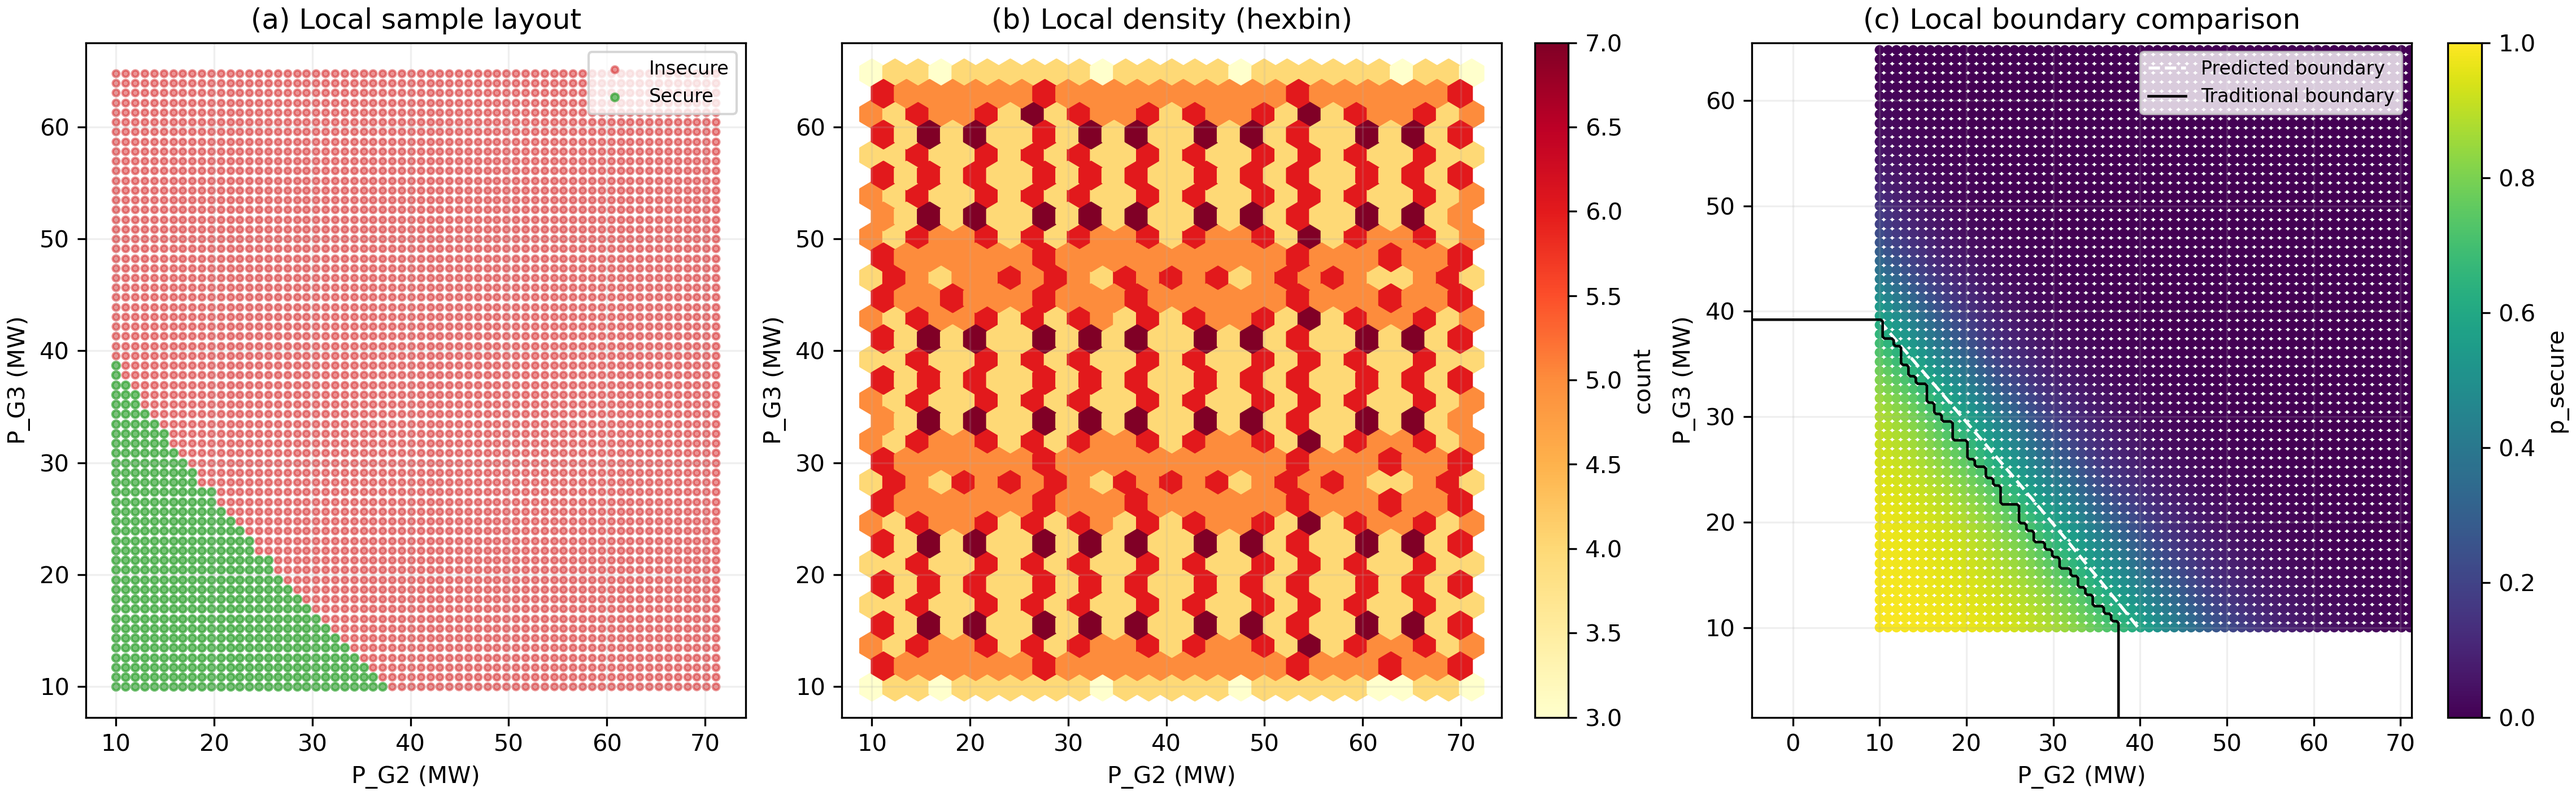
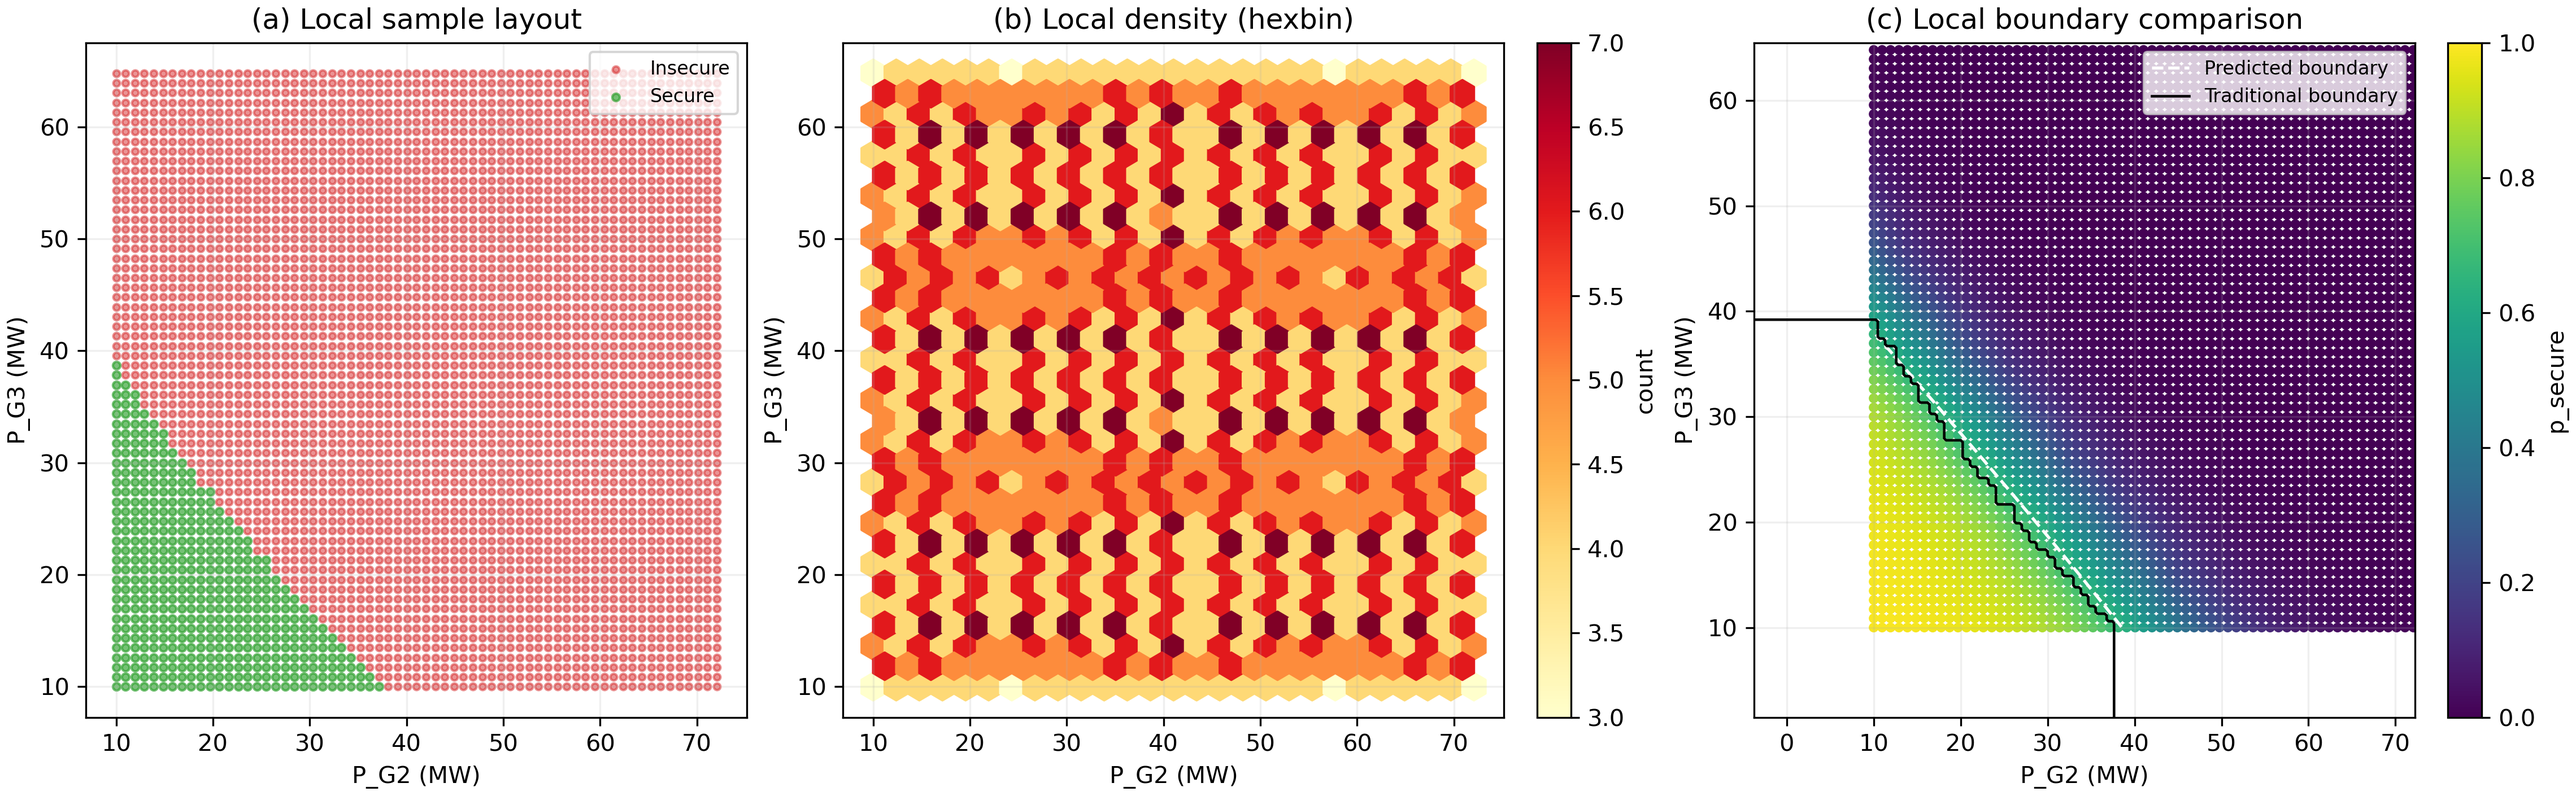
Tighten case9 boundary inclusion errors
Add strict-FPR threshold selection for boundary-loop outputs and regenerate case9 boundary/security comparison figures to reduce infeasible-region over-inclusion relative to traditional results.

diff --git a/experiments/run_case9_boundary_loop.py b/experiments/run_case9_boundary_loop.py
@@ -111,6 +111,79 @@ def _stratified_split(
     return {"train": train, "val": val, "test": test}
 
 
+def _select_strict_threshold(
+    probs: np.ndarray,
+    labels: np.ndarray,
+    fpr_target: float = 1e-3,
+    t_min: float = 0.50,
+    t_max: float = 0.95,
+    n_grid: int = 91,
+) -> Tuple[float, Dict[str, float]]:
+    """
+    Select threshold prioritizing low false-positive rate.
+
+    Strategy:
+    1) Among thresholds with FPR <= fpr_target, maximize F1.
+    2) If none satisfy target, choose threshold with minimum FPR, then max F1.
+    """
+    p = probs.astype(np.float64)
+    y = labels.astype(np.int64)
+
+    best_feasible = None
+    best_any = None
+
+    for t in np.linspace(t_min, t_max, int(n_grid)):
+        pred = (p > float(t)).astype(np.int64)
+        tp = float(np.sum((pred == 1) & (y == 1)))
+        fp = float(np.sum((pred == 1) & (y == 0)))
+        fn = float(np.sum((pred == 0) & (y == 1)))
+        tn = float(np.sum((pred == 0) & (y == 0)))
+
+        prec = tp / (tp + fp + 1e-12)
+        rec = tp / (tp + fn + 1e-12)
+        f1 = 2.0 * prec * rec / (prec + rec + 1e-12)
+        fpr = fp / (fp + tn + 1e-12)
+
+        row = {
+            "threshold": float(t),
+            "f1": float(f1),
+            "precision": float(prec),
+            "recall": float(rec),
+            "fpr": float(fpr),
+            "tp": int(tp),
+            "fp": int(fp),
+            "fn": int(fn),
+            "tn": int(tn),
+        }
+
+        if (best_any is None) or (row["fpr"] < best_any["fpr"] - 1e-12) or (
+            abs(row["fpr"] - best_any["fpr"]) <= 1e-12 and row["f1"] > best_any["f1"] + 1e-12
+        ):
+            best_any = row
+
+        if row["fpr"] <= float(fpr_target):
+            if (best_feasible is None) or (row["f1"] > best_feasible["f1"] + 1e-12) or (
+                abs(row["f1"] - best_feasible["f1"]) <= 1e-12 and row["threshold"] > best_feasible["threshold"]
+            ):
+                best_feasible = row
+
+    out = best_feasible if best_feasible is not None else best_any
+    if out is None:
+        # Should never happen because threshold grid is non-empty.
+        out = {
+            "threshold": 0.5,
+            "f1": 0.0,
+            "precision": 0.0,
+            "recall": 0.0,
+            "fpr": 0.0,
+            "tp": 0,
+            "fp": 0,
+            "fn": 0,
+            "tn": 0,
+        }
+    return float(out["threshold"]), out
+
+
 def _make_loader(ds: Case9Dataset, indices: np.ndarray, batch_size: int, shuffle: bool) -> DataLoader:
     part = MultiTaskDataset(
         ds.X_norm[indices],
@@ -377,6 +450,12 @@ def main() -> None:
     parser.add_argument("--boundary-weight", type=float, default=2.2)
     parser.add_argument("--boundary-hard-neg-boost", type=float, default=3.0)
     parser.add_argument("--p1-weight", type=float, default=4.0)
+    parser.add_argument(
+        "--strict-fpr-target",
+        type=float,
+        default=1e-3,
+        help="Target max FPR when selecting final plotting/deployment threshold.",
+    )
     args = parser.parse_args()
 
     _set_seed(args.seed)
@@ -610,6 +689,20 @@ def main() -> None:
         "val": _make_loader(ds, split["val"], batch_size=args.batch_size, shuffle=False),
         "test": _make_loader(ds, split["test"], batch_size=args.batch_size, shuffle=False),
     }
+
+    # Re-select final threshold with stricter FPR preference on validation set
+    val_probs, _ = _predict_on_indices(model, ds, split["val"], device=device)
+    val_labels = ds.y_cls[split["val"]]
+    strict_th, strict_row = _select_strict_threshold(
+        probs=val_probs,
+        labels=val_labels,
+        fpr_target=float(args.strict_fpr_target),
+        t_min=0.50,
+        t_max=0.95,
+        n_grid=91,
+    )
+    best_threshold = float(strict_th)
+
     final_val = evaluate_full_state_model(model, loaders_eval["val"], ds, device, threshold=best_threshold)
     final_test = evaluate_full_state_model(model, loaders_eval["test"], ds, device, threshold=best_threshold)
     final_test_closure = evaluate_energy_consistency(model, loaders_eval["test"], ds, device)
@@ -631,9 +724,9 @@ def main() -> None:
             "state_mean": ds.state_mean,
             "state_std": ds.state_std,
             "state_names": ds.state_names,
-            "best_threshold": float(best_threshold),
-            "best_round": int(best_round),
-        },
+        "best_threshold": float(best_threshold),
+        "best_round": int(best_round),
+    },
         ckpt_path,
     )
 
@@ -655,6 +748,7 @@ def main() -> None:
         "config": vars(args),
         "best_round": int(best_round),
         "best_threshold": float(best_threshold),
+        "strict_threshold_info": strict_row,
         "rounds": [asdict(r) for r in rounds],
         "final": {
             "validation": final_val,
